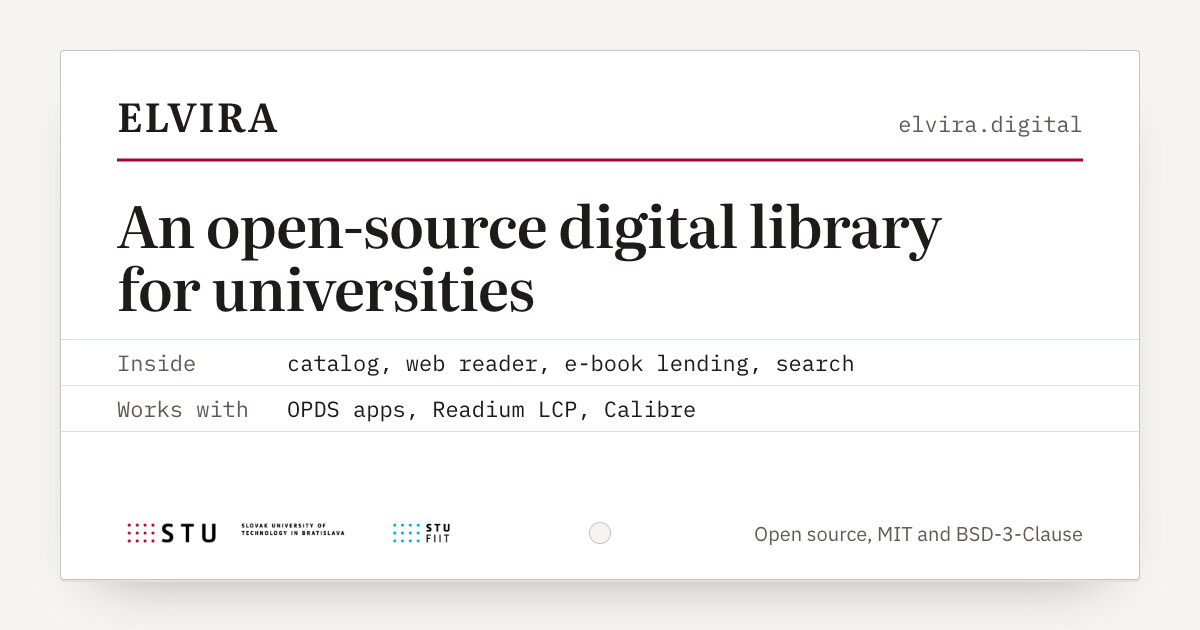
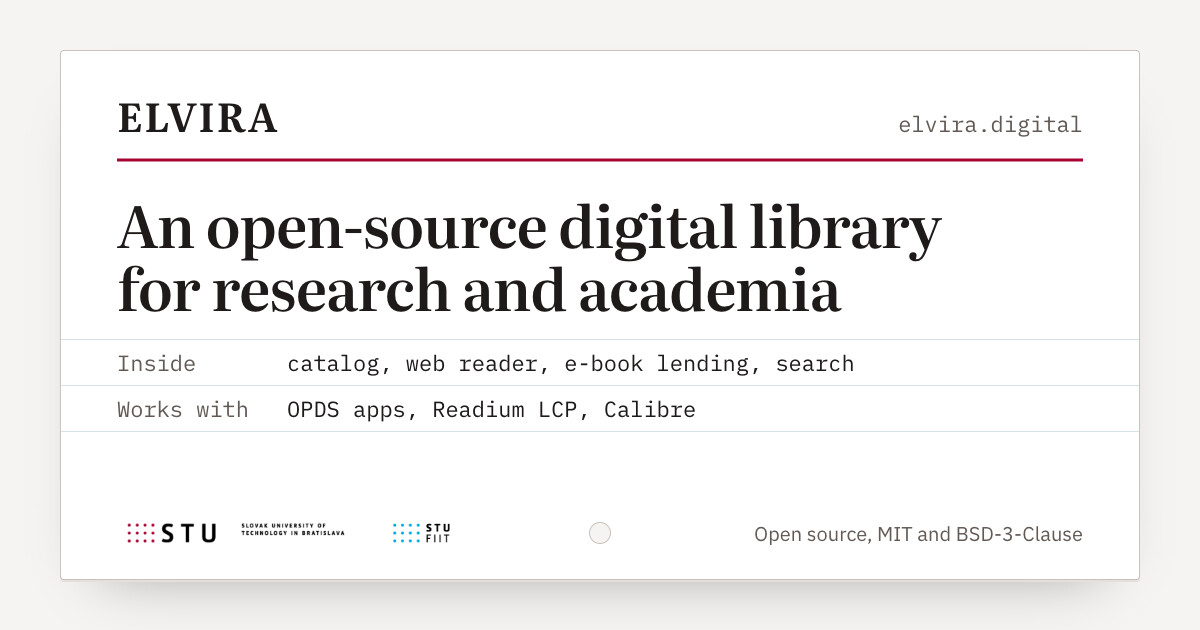
Website redesign (STU theme)

Changed region(s): [[0.185, 0.4222, 0.7092, 0.5127]]

diff --git a/src/pages/index.js b/src/pages/index.js
@@ -28,7 +28,7 @@ const FEATURES = [
   },
   {
     title: 'Many libraries, one install',
-    body: 'One server hosts separate catalogs, each with its own publications and permissions. Sign in with a local account or the university’s LDAP.',
+    body: 'One server hosts separate catalogs, each with its own publications and permissions. Sign in with a local account or your institution’s LDAP.',
   },
   {
     title: 'An API for everything',
@@ -83,7 +83,7 @@ function Hero() {
     <header className={styles.hero}>
       <div className={styles.heroText}>
         <h1 className={styles.heroTitle}>
-          An open-source digital library for universities
+          An open-source digital library for research and academia
         </h1>
         <p className="e-lede">
           ELVIRA puts a library’s publications in one catalog, opens them in a
@@ -291,7 +291,7 @@ function Start() {
 export default function Home() {
   return (
     <Layout
-      title="Open-source digital library for universities"
+      title="Open-source digital library for research and academia"
       description="ELVIRA is an open-source digital library platform developed at the Slovak University of Technology in Bratislava: a catalog, a web reader, Readium LCP lending and search inside every book.">
       <main className="e-page">
         <Hero />

diff --git a/brand/social-card.html b/brand/social-card.html
@@ -155,7 +155,7 @@
       <span class="wordmark">ELVIRA</span>
       <span class="site">elvira.digital</span>
     </div>
-    <h1>An open-source digital library for universities</h1>
+    <h1>An open-source digital library for research and academia</h1>
     <dl class="fields">
       <dt>Inside</dt>
       <dd>catalog, web reader, e-book lending, search</dd>

diff --git a/src/pages/index.module.css b/src/pages/index.module.css
@@ -10,12 +10,12 @@
 }
 
 .heroTitle {
-  font-size: clamp(2.2rem, 4.4vw, 3.3rem);
+  font-size: clamp(2.1rem, 4vw, 3rem);
   font-weight: 600;
   line-height: 1.08;
   letter-spacing: -0.015em;
   margin: 0.5rem 0 1.5rem;
-  max-width: 16ch;
+  max-width: 19ch;
 }
 
 .heroText p {

diff --git a/docs/adopting.md b/docs/adopting.md
@@ -10,11 +10,11 @@ ELVIRA runs at two universities on two separate installs. This page covers
 what you get, what you need to bring, and where the limits are.
 
 You can run it entirely on your own. If you would rather have help, the team
-supports faculties and universities setting it up.
+supports universities, faculties and research institutions setting it up.
 
 ## Who it fits
 
-- A **university or faculty library** that wants its publications searchable
+- An **academic or research library** that wants its publications searchable
   and readable in the browser, on its own servers.
 - Anyone who needs **standards-based lending**, so readers can use OPDS apps
   and Readium LCP.
